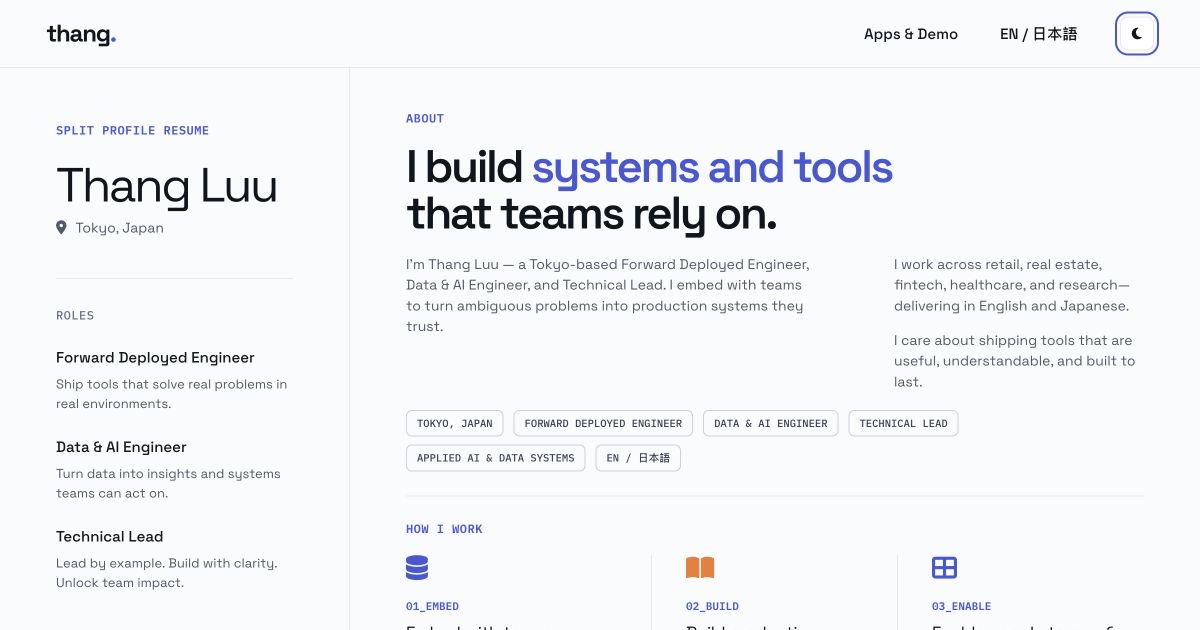
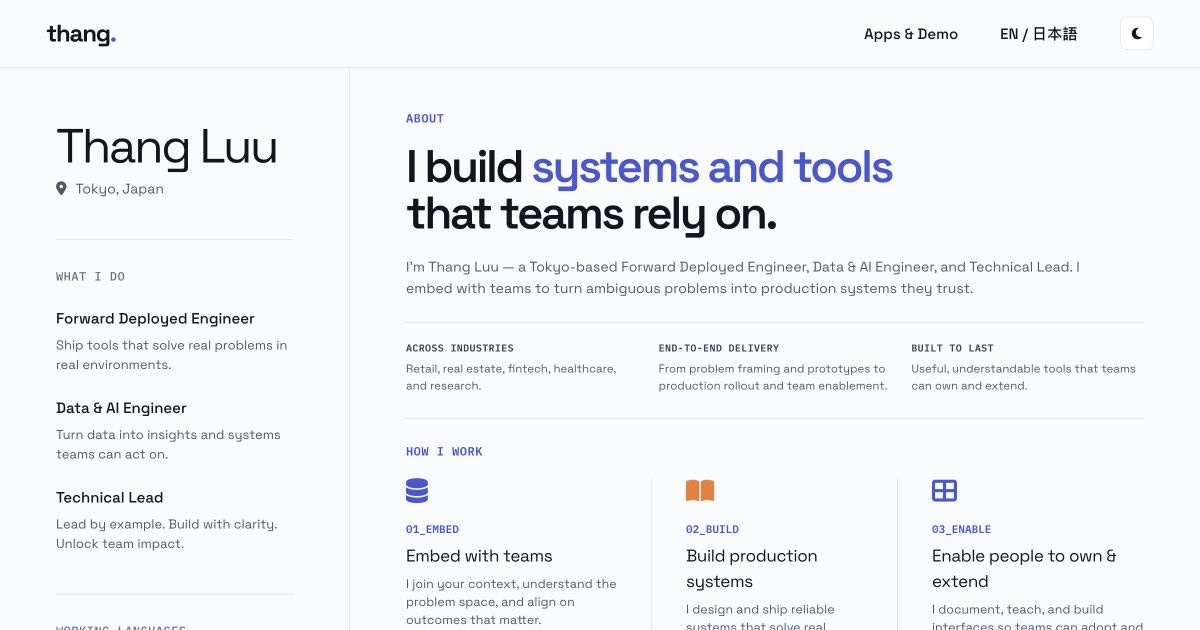
refactor(home): clarify profile and about hierarchy [skip ci]

diff --git a/css/styles.css b/css/styles.css
@@ -117,26 +117,27 @@
 .resume-home .resume-layout{display:grid;grid-template-columns:350px minmax(0,1fr);max-width:1600px;margin:0 auto;border-bottom:1px solid var(--border)}
 .resume-home .resume-kicker{margin:0;color:var(--accent);font:600 12px/1.4 var(--font-mono);letter-spacing:.04em;text-transform:uppercase}
 .resume-home .resume-profile{padding:54px 56px 44px;border-right:1px solid var(--border)}
-.resume-home .resume-profile>h1{margin:22px 0 8px;font-size:48px;line-height:1;letter-spacing:-.05em}
+.resume-home .resume-profile>h1{margin:0 0 8px;font-size:48px;line-height:1;letter-spacing:-.05em}
 .resume-home .resume-location{display:flex;align-items:center;gap:9px;margin:0;color:var(--body);font-size:14px}
 .resume-home .profile-section{margin-top:40px;padding-top:28px;border-top:1px solid var(--border)}
 .resume-home .profile-section>h2{margin:0 0 23px;color:var(--muted);font:500 12px var(--font-mono);letter-spacing:.04em;text-transform:uppercase}
 .resume-home .profile-section article+article{margin-top:22px}
 .resume-home .profile-section article h3{margin:0 0 6px;font-size:15px;font-weight:500}
 .resume-home .profile-section article p{margin:0;color:var(--body);font-size:13px;line-height:1.5}
-.resume-home .profile-languages p{display:flex;align-items:center;gap:12px;margin:12px 0;font-size:14px}
-.resume-home .profile-languages p i{color:#f27a2b;font-size:8px}.resume-home .profile-languages p:last-child i{color:var(--accent)}
+.resume-home .profile-languages p{display:flex;align-items:center;gap:12px;margin:10px 0;font-size:14px}
+.resume-home .profile-languages p i{color:#f27a2b;font-size:8px}.resume-home .profile-languages p:nth-of-type(even) i{color:var(--accent)}
 .resume-home .profile-connect a{display:flex;align-items:center;justify-content:space-between;padding:10px 0;border-bottom:1px solid var(--border);font-size:13px}
 .resume-home .profile-connect a span{display:flex;align-items:center;gap:14px}.resume-home .profile-connect a span i{width:16px;color:var(--strong)}
 .resume-home .profile-connect a>i{font-size:11px}
 .resume-home .availability{display:flex;align-items:center;gap:10px;margin:30px 0 0;color:var(--accent);font-size:12px}.resume-home .availability i{font-size:8px}
 .resume-home .resume-content{min-width:0;padding:42px 56px 30px}
-.resume-home .resume-about>h2{margin:16px 0 18px;font-size:clamp(42px,3.8vw,58px);line-height:1.02;letter-spacing:-.055em;font-weight:600}
-.resume-home .resume-about>h2 em{color:var(--accent);font-style:normal}
-.resume-home .about-copy{display:grid;grid-template-columns:minmax(0,1.5fr) minmax(250px,.8fr);gap:76px}
-.resume-home .about-copy p{margin:0;color:var(--body);font-size:14px;line-height:1.48}.resume-home .about-copy div p+p{margin-top:14px}
-.resume-home .resume-about .role-tags{margin:18px 0 0;gap:8px 10px}
-.resume-home .resume-about .role-tags li{padding:6px 10px;font-size:10.5px}
+.resume-home .about-overview{margin-top:16px}
+.resume-home .about-intro>h2{margin:0;font-size:clamp(42px,3.8vw,58px);line-height:1.02;letter-spacing:-.055em;font-weight:600}
+.resume-home .about-intro>h2 em{color:var(--accent);font-style:normal}
+.resume-home .about-lead{max-width:690px;margin:20px 0 0;color:var(--body);font-size:14px;line-height:1.55}
+.resume-home .about-principles{display:grid;grid-template-columns:repeat(3,minmax(0,1fr));gap:20px;margin-top:23px;padding-top:18px;border-top:1px solid var(--border)}
+.resume-home .about-principles p{margin:0;color:var(--body);font-size:11.5px;line-height:1.45}
+.resume-home .about-principles span{display:block;margin-bottom:6px;color:var(--strong);font:600 10px/1.35 var(--font-mono);letter-spacing:.035em;text-transform:uppercase}
 .resume-home .resume-method{margin-top:24px;padding:24px 0 26px;border-top:1px solid var(--border);border-bottom:1px solid var(--border)}
 .resume-home .method-grid{display:grid;grid-template-columns:repeat(3,minmax(0,1fr));margin-top:18px}
 .resume-home .method-grid article{padding:0 34px;border-right:1px solid var(--border)}.resume-home .method-grid article:first-child{padding-left:0}.resume-home .method-grid article:last-child{padding-right:0;border-right:0}
@@ -153,19 +154,19 @@
 @media(max-width:1100px){
   .resume-home .resume-layout{grid-template-columns:280px minmax(0,1fr)}
   .resume-home .resume-profile{padding-inline:34px}.resume-home .resume-content{padding-inline:38px}
-  .resume-home .about-copy{gap:38px}.resume-home .method-grid article{padding-inline:22px}
+  .resume-home .about-principles{gap:14px}.resume-home .method-grid article{padding-inline:22px}
   .resume-home .project-row{grid-template-columns:150px repeat(3,minmax(0,1fr))}.resume-home .project-group,.resume-home .resume-project{padding-inline:14px}.resume-home .resume-project{padding-right:30px}
 }
 @media(max-width:780px){
   .resume-home .resume-layout{grid-template-columns:1fr}
   .resume-home .resume-profile{display:grid;grid-template-columns:1fr 1fr;gap:22px 30px;padding:38px var(--home-pad);border-right:0;border-bottom:1px solid var(--border)}
-  .resume-home .resume-profile>.resume-kicker,.resume-home .resume-profile>h1,.resume-home .resume-location{grid-column:1/-1}.resume-home .resume-profile>h1{margin-block:8px 0}
+  .resume-home .resume-profile>h1,.resume-home .resume-location{grid-column:1/-1}.resume-home .resume-profile>h1{margin-block:0}
   .resume-home .profile-section{margin:0;padding-top:18px}.resume-home .profile-section article+article{margin-top:14px}.resume-home .profile-connect{grid-column:1/-1}.resume-home .availability{grid-column:1/-1;margin:0}
-  .resume-home .resume-content{padding:40px var(--home-pad)}.resume-home .about-copy{grid-template-columns:1fr;gap:20px}.resume-home .resume-about>h2 br{display:none}
+  .resume-home .resume-content{padding:40px var(--home-pad)}.resume-home .about-intro>h2 br{display:none}.resume-home .about-principles{gap:18px}
   .resume-home .method-grid{grid-template-columns:1fr;gap:26px}.resume-home .method-grid article,.resume-home .method-grid article:first-child,.resume-home .method-grid article:last-child{padding:0 0 24px;border-right:0;border-bottom:1px solid var(--border)}.resume-home .method-grid article:last-child{padding-bottom:0;border-bottom:0}
   .resume-home .project-row{grid-template-columns:1fr}.resume-home .project-group,.resume-home .resume-project{border-right:0;border-bottom:1px solid var(--border);padding:17px 0}.resume-home .resume-project{padding-right:30px}.resume-home .project-row:last-child{border-bottom:0}
 }
 @media(max-width:480px){
   .resume-home .resume-profile{grid-template-columns:1fr;padding-inline:24px}.resume-home .profile-section,.resume-home .profile-connect,.resume-home .availability{grid-column:1}
-  .resume-home .resume-profile>h1{font-size:42px}.resume-home .resume-content{padding-inline:24px}.resume-home .resume-about>h2{font-size:40px}.resume-home .projects-heading{align-items:flex-start;gap:20px}.resume-home .projects-heading a{white-space:nowrap}
+  .resume-home .resume-profile>h1{font-size:42px}.resume-home .resume-content{padding-inline:24px}.resume-home .about-intro>h2{font-size:36px}.resume-home .about-principles{grid-template-columns:1fr;gap:14px}.resume-home .about-principles p{padding-bottom:14px;border-bottom:1px solid var(--border)}.resume-home .about-principles p:last-child{padding-bottom:0;border-bottom:0}.resume-home .projects-heading{align-items:flex-start;gap:20px}.resume-home .projects-heading a{white-space:nowrap}
 }

diff --git a/index.html b/index.html
@@ -19,7 +19,7 @@
   <link href="https://use.fontawesome.com/releases/v6.4.2/css/all.css" rel="stylesheet">
   <link rel="stylesheet" href="css/reset.css">
   <link rel="stylesheet" href="css/tokens.css?v=20260713e">
-  <link rel="stylesheet" href="css/styles.css?v=20260713f">
+  <link rel="stylesheet" href="css/styles.css?v=20260714a">
   <script>document.documentElement.dataset.theme=localStorage.theme||(matchMedia('(prefers-color-scheme:dark)').matches?'dark':'light')</script>
 </head>
 <body class="home-v2 resume-home">
@@ -36,21 +36,22 @@
 
   <main id="main" class="resume-layout">
     <aside class="resume-profile" aria-labelledby="profileName">
-      <p class="resume-kicker">Split profile resume</p>
       <h1 id="profileName">Thang Luu</h1>
       <p class="resume-location"><i class="fa-solid fa-location-dot" aria-hidden="true"></i> Tokyo, Japan</p>
 
       <section class="profile-section" aria-labelledby="rolesTitle">
-        <h2 id="rolesTitle">Roles</h2>
+        <h2 id="rolesTitle">What I do</h2>
         <article><h3>Forward Deployed Engineer</h3><p>Ship tools that solve real problems in real environments.</p></article>
         <article><h3>Data &amp; AI Engineer</h3><p>Turn data into insights and systems teams can act on.</p></article>
         <article><h3>Technical Lead</h3><p>Lead by example. Build with clarity. Unlock team impact.</p></article>
       </section>
 
       <section class="profile-section profile-languages" aria-labelledby="languagesTitle">
-        <h2 id="languagesTitle">Languages</h2>
+        <h2 id="languagesTitle">Working languages</h2>
         <p><i class="fa-solid fa-circle" aria-hidden="true"></i> English</p>
         <p><i class="fa-solid fa-circle" aria-hidden="true"></i> 日本語</p>
+        <p><i class="fa-solid fa-circle" aria-hidden="true"></i> Tiếng Việt</p>
+        <p><i class="fa-solid fa-circle" aria-hidden="true"></i> 中文</p>
       </section>
 
       <section class="profile-section profile-connect" aria-labelledby="connectTitle">
@@ -65,14 +66,17 @@
     <div class="resume-content">
       <section class="resume-about" aria-labelledby="aboutTitle">
         <p class="resume-kicker">About</p>
-        <h2 id="aboutTitle">I build <em>systems and tools</em><br>that teams rely on.</h2>
-        <div class="about-copy">
-          <p>I’m Thang Luu — a Tokyo-based Forward Deployed Engineer, Data &amp; AI Engineer, and Technical Lead. I embed with teams to turn ambiguous problems into production systems they trust.</p>
-          <div><p>I work across retail, real estate, fintech, healthcare, and research—delivering in English and Japanese.</p><p>I care about shipping tools that are useful, understandable, and built to last.</p></div>
+        <div class="about-overview">
+          <div class="about-intro">
+            <h2 id="aboutTitle">I build <em>systems and tools</em> <br>that teams rely on.</h2>
+            <p class="about-lead">I’m Thang Luu — a Tokyo-based Forward Deployed Engineer, Data &amp; AI Engineer, and Technical Lead. I embed with teams to turn ambiguous problems into production systems they trust.</p>
+            <div class="about-principles">
+              <p><span>Across industries</span>Retail, real estate, fintech, healthcare, and research.</p>
+              <p><span>End-to-end delivery</span>From problem framing and prototypes to production rollout and team enablement.</p>
+              <p><span>Built to last</span>Useful, understandable tools that teams can own and extend.</p>
+            </div>
+          </div>
         </div>
-        <ul class="role-tags" aria-label="Professional profile">
-          <li>Tokyo, Japan</li><li>Forward Deployed Engineer</li><li>Data &amp; AI Engineer</li><li>Technical Lead</li><li>Applied AI &amp; Data Systems</li><li>EN / 日本語</li>
-        </ul>
       </section>
 
       <section class="resume-method" aria-labelledby="methodTitle">
@@ -85,7 +89,7 @@
       </section>
 
       <section class="resume-projects" aria-labelledby="projectsTitle">
-        <div class="projects-heading"><p class="resume-kicker" id="projectsTitle">Past projects</p><a href="apps/">View all projects <i class="fa-solid fa-arrow-right" aria-hidden="true"></i></a></div>
+        <div class="projects-heading"><p class="resume-kicker" id="projectsTitle">Selected work</p><a href="apps/">View all projects <i class="fa-solid fa-arrow-right" aria-hidden="true"></i></a></div>
         <div class="project-row">
           <div class="project-group"><i class="fa-solid fa-database" aria-hidden="true"></i><div><h3>Technical Work</h3><p>Data &amp; Engineering</p></div></div>
           <a class="resume-project" href="apps/data-copilot/"><h3>Data Copilot</h3><p>Ask questions across CSVs, SQL, and charts. Get answers and next steps.</p><i class="fa-solid fa-arrow-right" aria-hidden="true"></i></a>

diff --git a/design-qa.md b/design-qa.md
@@ -1,45 +1,47 @@
-# Design QA — Split-profile online resume and two-collection catalog
+# Design QA — About hierarchy and resume-label refinement
 
-- Source visual truth: `/Users/thang/Documents/thangldw.github.io/audit/resume-v3/source-option-3.png`
-- Implementation screenshot: `/Users/thang/Documents/thangldw.github.io/audit/resume-v3/home-desktop-pass2.png`
-- Full-view comparison evidence: `/Users/thang/Documents/thangldw.github.io/audit/resume-v3/comparison-pass2.jpg`
-- Apps catalog evidence: `/Users/thang/Documents/thangldw.github.io/audit/resume-v3/apps-two-groups-desktop.png`
-- Mobile evidence: `/Users/thang/Documents/thangldw.github.io/audit/resume-v3/home-mobile-390.png` and `/Users/thang/Documents/thangldw.github.io/audit/resume-v3/apps-language-mobile-390.png`
+- Original visual direction: `/Users/thang/Documents/thangldw.github.io/audit/resume-v3/source-option-3.png`
+- User annotation truth: `/Users/thang/Documents/thangldw.github.io/audit/resume-v3/user-about-annotation.png`
+- Same-viewport baseline: `/Users/thang/Documents/thangldw.github.io/audit/resume-v3/about-before.png`
+- Implementation screenshot: `/Users/thang/Documents/thangldw.github.io/audit/resume-v3/about-annotation-desktop.png`
+- Full-view comparison evidence: `/Users/thang/Documents/thangldw.github.io/audit/resume-v3/about-annotation-comparison-full.jpg`
+- Focused comparison evidence: `/Users/thang/Documents/thangldw.github.io/audit/resume-v3/about-annotation-comparison-focused.jpg`
+- Mobile evidence: `/Users/thang/Documents/thangldw.github.io/audit/resume-v3/about-annotation-mobile-390.png`
 - Viewport: 1440 × 1024 desktop; 390 × 844 mobile
-- State: light theme for visual comparison; dark theme and mobile navigation tested separately
+- State: home page, light theme
 
 ## Findings
 
 - No remaining P0, P1, or P2 issues.
-- Home matches the selected split-profile direction: fixed visual rail on desktop, senior-role summary, About statement, three-part work method, and two compact past-project rows.
-- The requested Apps information architecture is explicit and scalable: `Technical` contains the three engineering projects and `Language` contains all twelve Japanese-learning tools.
-- Fonts and typography: Space Grotesk, IBM Plex Mono, weights, compact mono labels, two-line statement, and hierarchy closely match the source.
-- Spacing and layout rhythm: 350px profile rail, thin dividers, three-column method, and four-column project rows align with the source; mobile collapses without horizontal overflow.
-- Colors and visual tokens: existing light/dark neutral surfaces, indigo primary accent, and orange secondary accent are preserved.
-- Image quality and asset fidelity: the selected concept contains no photographic or raster content; Font Awesome supplies the closest matching interface icons.
-- Copy and content: About, roles, working method, and project summaries use real portfolio content. The unsupported mock-only PDF action was intentionally omitted rather than linking a fake document.
+- The duplicated `Split profile resume` kicker and six-tag profile row were removed as annotated.
+- The sidebar labels now read `What I Do` and `Working Languages`; the project heading now reads `Selected Work`, which is clearer and more portfolio-appropriate than `Roles`, `Languages`, and `Past Projects`.
+- The language list contains English, 日本語, Tiếng Việt, and 中文 without inventing proficiency levels.
+- The About section now uses one narrative flow plus three non-duplicative dimensions: industries, delivery scope, and maintainability.
+
+## Required fidelity surfaces
+
+- Fonts and typography: existing Space Grotesk and IBM Plex Mono hierarchy is preserved. The mobile headline was reduced to 36px and its hidden line-break whitespace was corrected so words never merge.
+- Spacing and layout rhythm: removing the repeated tags reduces the About height while keeping `How I Work` and both selected-work rows visible in the desktop viewport. Sidebar dividers and section rhythm remain aligned.
+- Colors and visual tokens: existing neutral surfaces, indigo accent, orange secondary accent, and light/dark tokens are unchanged.
+- Image quality and asset fidelity: this screen uses no photographic assets; Font Awesome icons remain sharp and consistent with the selected direction.
+- Copy and content: all repeated role/location/language tags were removed. Added copy describes delivery scope and working principles already supported by the resume content.
 
 ## Interaction and implementation checks
 
-- Home theme toggle changes light/dark state and updates its accessible label.
-- Home mobile menu opens, closes with Escape, and retains the standardized navigation.
-- Apps filters expose All, Technical, and Language; `Language` shows 12 apps and `Technical` shows 3 projects.
-- Search inside Language with `kanji` returns 2 results and updates the URL/live result text.
-- Legacy category URLs (`data`, `vocabulary`, `exam`, `grammar`, `reading`) map to the new Technical/Language model.
+- Desktop and 390px mobile render without horizontal overflow.
+- Theme and navigation implementation were not changed.
 - Browser console errors: none.
+- Static validation: all 32 HTML pages, 10 redirects, 18 sitemap URLs, social metadata, and local references pass.
 
 ## Comparison history
 
-1. Pass 1: P2 density mismatch — the Language project row started below the 1024px viewport, while the selected source showed both project rows. Evidence: `audit/resume-v3/comparison-pass1.jpg`.
-2. Fix: reduced About and method vertical spacing, tightened body type, and compacted project-row padding without changing content or hierarchy.
-3. Pass 2: both Technical and Language project rows are visible in the target viewport; no actionable P0/P1/P2 differences remain. Evidence: `audit/resume-v3/comparison-pass2.jpg`.
-
-## Focused comparison evidence
-
-The 2880 × 1024 combined comparison keeps the profile rail, About typography, method columns, and both project rows readable at original resolution. Apps grouping and mobile behavior are separately captured, so no additional crop was required.
+1. Baseline annotation: the top profile kicker and horizontal tag row duplicated sidebar content; generic section labels did not communicate portfolio intent.
+2. Draft pass: replaced the tag row with a profile snapshot, then rejected it because it still repeated sidebar information.
+3. Final fix: removed the duplicate snapshot entirely, kept only non-duplicative About context, renamed the three annotated headings, and expanded the working-language list.
+4. Post-fix evidence: the same 1440 × 1024 comparison shows clearer hierarchy, lower density, and no layout regression. Mobile verification confirms no overflow or merged headline text.
 
 ## Follow-up polish
 
-- P3: a downloadable resume action can be added later when a real, maintained PDF exists.
+- No P3 follow-up is required for the annotated scope.
 
 final result: passed

diff --git a/audit/release-2026-07-13/audit-report.md b/audit/release-2026-07-13/audit-report.md
@@ -22,6 +22,7 @@ The documented release backlog is complete. Pipeline history persists, long voca
 12. Portfolio v2 replaces the timeline and Recent Updates model with a rotating spotlight, three scalable collections, and a searchable catalog. Data Copilot, Pipeline Observability, RAGOps, Japanese-learning tools, and future demos now share one expandable information architecture. The selected design passed side-by-side visual QA at 1440 × 1024 with no remaining P0/P1/P2 issues.
 13. Global navigation now follows one compact standard on Home, Apps, Japanese, RAGOps, and every demo route: `Apps & Demo`, `EN / 日本語`, and the theme control. The former Demos, Collections, Notes, About, and Contact header links were removed. Desktop and 320px checks passed without overflow or console errors.
 14. Home now operates as a split-profile online resume with a professional summary, role profile, Embed/Build/Enable working method, and compact Past Projects index. Apps now has exactly two top-level collections: Technical (3) and Language (12). Search, accessible filters, new category URLs, and legacy category aliases passed desktop/mobile checks with zero console errors.
+15. Annotated Home feedback is implemented: the duplicated profile kicker and horizontal tags were removed; `Roles`, `Languages`, and `Past Projects` became `What I Do`, `Working Languages`, and `Selected Work`; Tiếng Việt and 中文 were added. About now carries only non-duplicative industry, delivery, and maintainability context. Desktop/mobile checks passed without overflow or console errors.
 
 ## Screenshots
 
@@ -40,6 +41,8 @@ The documented release backlog is complete. Pipeline history persists, long voca
 ![Split-profile resume](../resume-v3/home-desktop-pass2.png)
 
 ![Technical and Language collections](../resume-v3/apps-two-groups-desktop.png)
+
+![Annotated About refinement](../resume-v3/about-annotation-comparison-full.jpg)
 
 ## Evidence limits
 

diff --git a/NEXT-STEPS.md b/NEXT-STEPS.md
@@ -50,6 +50,7 @@ Updated: 2026-07-13
 
 ## Post-release improvements
 
+- [x] Refine the Home resume from annotated feedback: remove duplicated profile labels/tags, rename the sidebar and project headings, expand working languages, and reorganize About around non-duplicative delivery context.
 - [x] Rebuild Home as a split-profile online resume with About, Roles, How I Work, and a concise Past Projects index based on the selected option 3 concept.
 - [x] Consolidate the Apps catalog into two primary collections: Technical (3 projects) and Language (12 Japanese-learning apps), while preserving search, URL state, and legacy category links.
 - [x] Standardize navigation across Home, Apps, Japanese, RAGOps, and every demo page: `Apps & Demo`, `EN / 日本語`, then the light/dark control; remove Demos, Collections, Notes, About, and Contact from all global headers.
